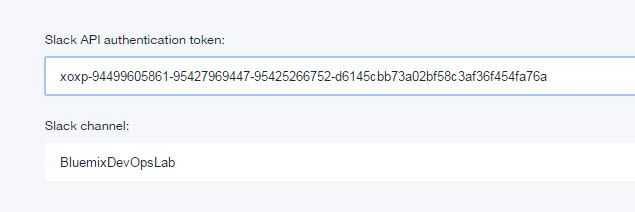
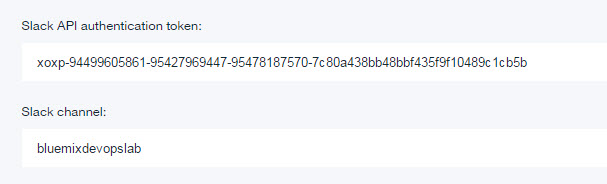
Broke up API access key

diff --git a/Lab-5-Slack.md b/Lab-5-Slack.md
@@ -20,9 +20,13 @@ This lab show how to integrate your toolchain with Slack.  Slack provides real-t
 1. On the devops-toolchain-lab toolchain's Tool Integrations page, click the add button **+**
 2. Select **Slack**
 3. On the Slack Configuration page:
-   - Enter
-
-  
+   - Enter the following all as one string as the API access key.
+<br>
+  **xoxp-94499605861-**
+<br>  
+  **95427969447-95478187570-**
+<br>  
+  **7c80a438bb48bbf435f9f10489c1cb5b**
 
     as the API access key
    - Enter **BluemixDevOpsLab** as the Slack channel.
